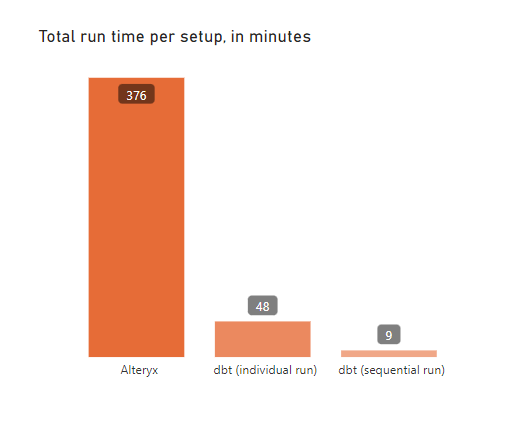
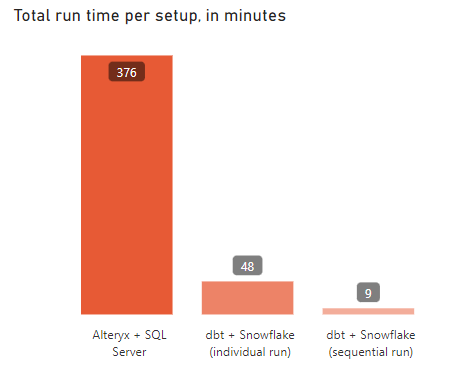
Minor adjustments to Alteryx blog post

diff --git a/website/blog/2023-04-24-framework-refactor-alteryx-dbt.md b/website/blog/2023-04-24-framework-refactor-alteryx-dbt.md
@@ -1,5 +1,5 @@
 ---
-title: "How we reduced a 6-hour runtime in Alteryx to 9 minutes in dbt"
+title: "How we reduced a 6-hour runtime in Alteryx to 9 minutes with dbt and Snowflake"
 description: Learn how the folks at Indicium Tech leveraged the modularity and visibility features of dbt to reduce a 6-hour runtime in Alteryx to only 9 minutes by implementing a refactoring workflow.
 authors: [arthur_marcon, lucas_bergodias, christian_vanbellen]
 slug: framework-refactor-alteryx-dbt
@@ -9,7 +9,7 @@ date: 2023-04-25
 is_featured: true
 ---
 
-Alteryx is a visual data transformation platform with a user-friendly interface and drag-and-drop tools. Nonetheless, Alteryx may have difficulties to cope with the complexity increase within an organization’s data pipeline, and it can become a suboptimal tool when companies start dealing with large and complex data transformations. In such cases, moving to dbt can be a natural step, since dbt is designed to manage complex data transformation pipelines in a scalable, efficient, and more explicit manner. In this article, we describe the differences between Alteryx and dbt, and how we reduced a client's 6-hour runtime in Alteryx to 9 minutes in dbt jobs at Indicium Tech.
+Alteryx is a visual data transformation platform with a user-friendly interface and drag-and-drop tools. Nonetheless, Alteryx may have difficulties to cope with the complexity increase within an organization’s data pipeline, and it can become a suboptimal tool when companies start dealing with large and complex data transformations. In such cases, moving to dbt can be a natural step, since dbt is designed to manage complex data transformation pipelines in a scalable, efficient, and more explicit manner. Also, this transition involved migrating from on-premises SQL Server to Snowflake cloud computing. In this article, we describe the differences between Alteryx and dbt, and how we reduced a client's 6-hour runtime in Alteryx to 9 minutes with dbt and Snowflake at Indicium Tech.
 
 <!--truncate-->
 
@@ -66,6 +66,7 @@ When the client hired Indicium, they had dozens of Alteryx workflows built and r
 
 <Term id="data-lineage">Data lineage</Term> was a point that added a lot of extra labor because it was difficult to identify which models were dependent on others with so many Alteryx workflows built. When the number of workflows increased, it required a long time to create a view of that lineage in another software. So, if a column's name changed in a model due to a change in the model's source, the marketing analysts would have to map which downstream models were impacted by such change to make the necessary adjustments. Because model lineage was mapped manually, it was a challenge to keep it up to date.
 
+####
 One of our main objectives was to refactor the Alteryx workflows that the marketing team utilized every day. As you may already suspect, this refactoring was done by creating models in dbt. The construction and description of how this refactoring was done is presented next.
 
 ### How we refactored (a step-by-step guide based on our experience)
@@ -116,7 +117,7 @@ Successfully converting an entire set of data workflows from the Alteryx engine 
 
 The conversion proved to be of great value to the client due to three main aspects of the new dbt-based data stack, which were observed by both teams:
 
-- Incredibly shortened run time: Perhaps the most impressive result obtained, the total run time of the marketing team’s data workflow was reduced from more than **6 hours** to just **9 minutes**. This represents a **run time reduction of more than** **40x**. Much of this comes from dbt’s agile SQL compilation and the sequential lineage based execution (see Figure 7).
+- Incredibly shortened run time: Perhaps the most impressive result obtained, the total run time of the marketing team’s data workflow was reduced from more than **6 hours** to just **9 minutes**. This represents a **run time reduction of more than** **40x**. Much of this comes from transitioning from SQL Server on-premises computing to Snowflake cloud computing, dbt’s agile SQL compilation and materialization offers, and the sequential lineage based execution (see Figure 7).
 - Improved workflow visibility: dbt’s support for documentation and testing, associated with dbt Cloud, allows for great visibility of the workflow’s lineage execution, accelerating errors and data inconsistencies identification and troubleshooting. More than once, our team was able to identify the impact of one column’s logic alteration in downstream models much earlier than these Alteryx models.
 - Workflow simplification: dbt’s modularized approach of data modeling, aside from accelerating total run time of the data workflow, simplified the construction of new tables, based on the already existing modules, and improved code readability.
 
